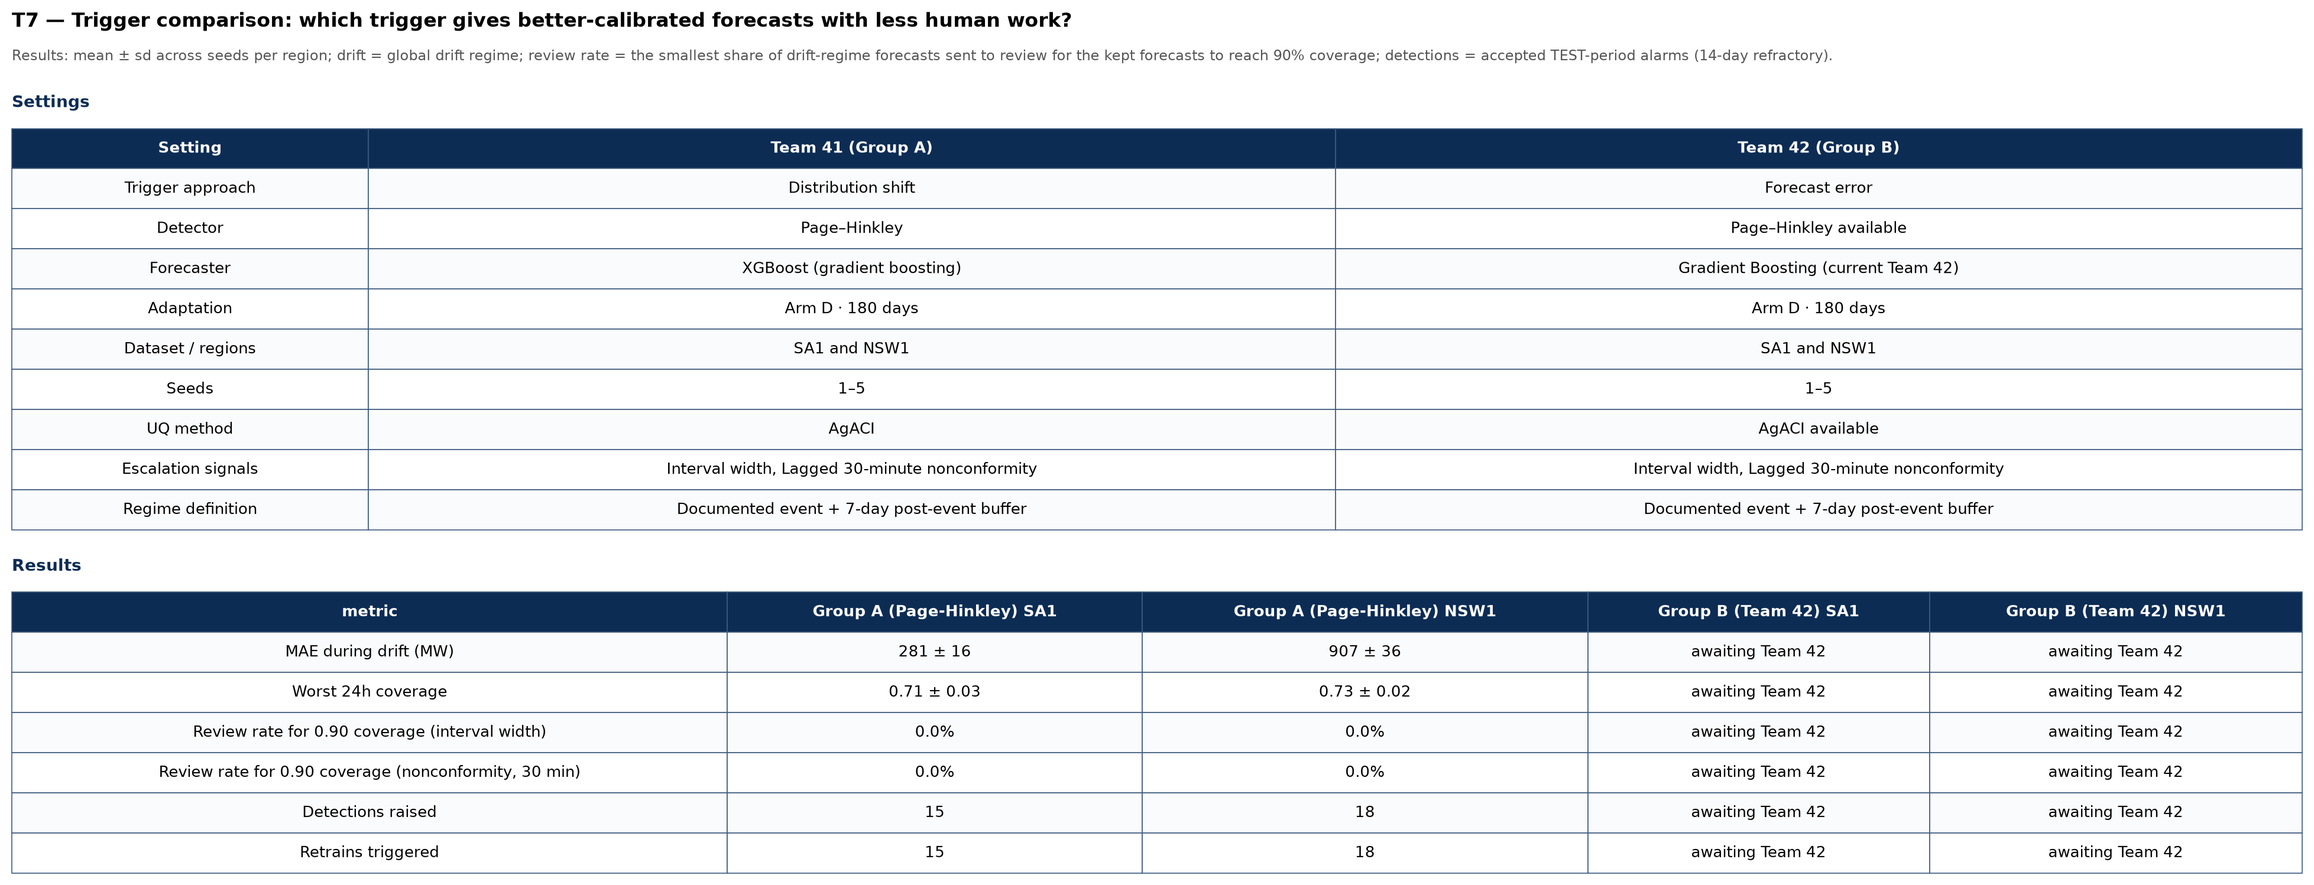
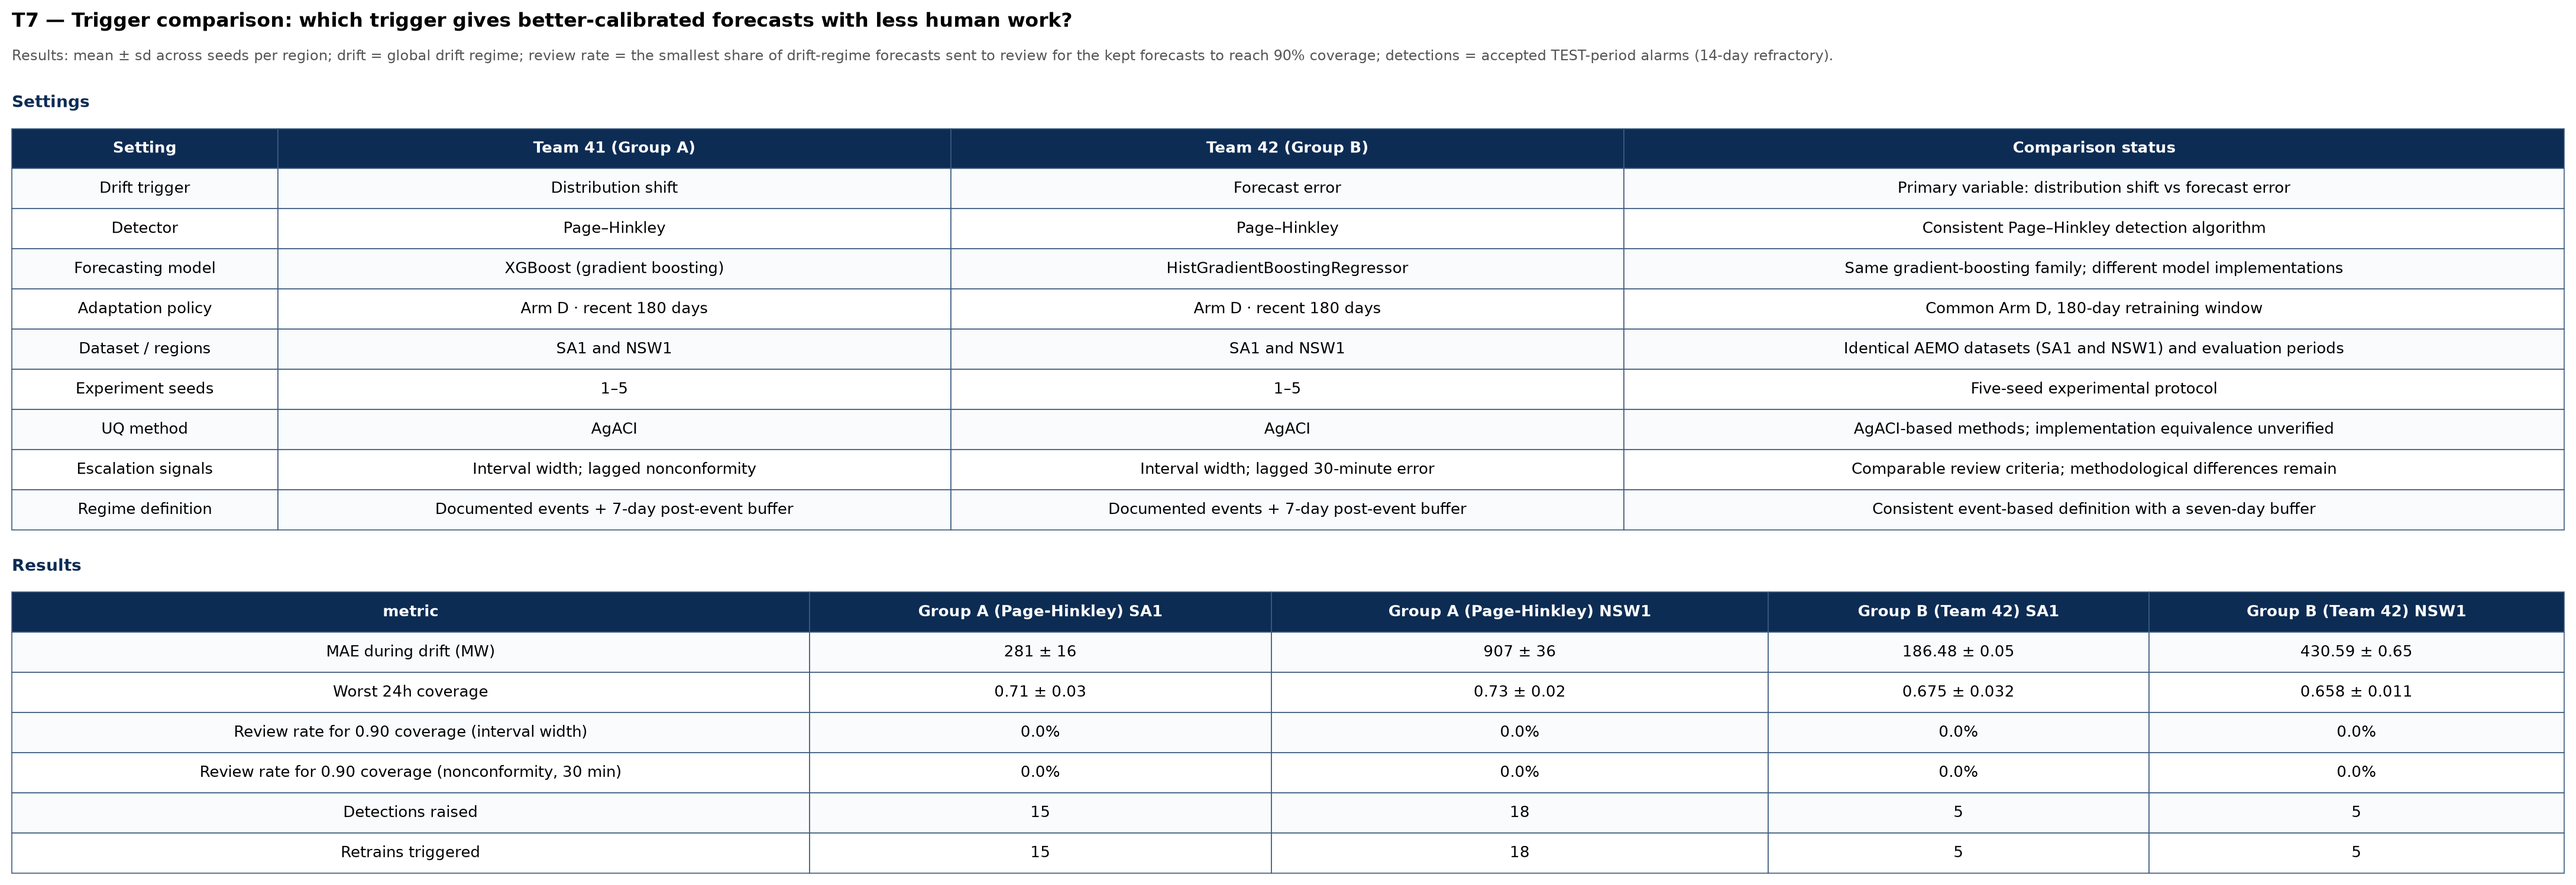
add: update table 7 & figure 6 with team 42 results

diff --git a/experiments/produce/produce_table_t7.py b/experiments/produce/produce_table_t7.py
@@ -46,25 +46,52 @@ GROUP_B_CSV = TABLE7_DIR / "group_b_team42.csv"
 # (its forecaster row follows MODEL).
 SETTINGS = pd.DataFrame(
     [
-        ("Trigger approach", "Distribution shift", "Forecast error"),
-        ("Detector", "Page–Hinkley", "Page–Hinkley available"),
-        ("Forecaster", MODEL_LABELS[MODEL], "Gradient Boosting (current Team 42)"),
-        ("Adaptation", "Arm D · 180 days", "Arm D · 180 days"),
-        ("Dataset / regions", "SA1 and NSW1", "SA1 and NSW1"),
-        ("Seeds", "1–5", "1–5"),
-        ("UQ method", "AgACI", "AgACI available"),
+        (
+            "Drift trigger",
+            "Distribution shift",
+            "Forecast error",
+            "Primary variable: distribution shift vs forecast error",
+        ),
+        ("Detector", "Page–Hinkley", "Page–Hinkley", "Consistent Page–Hinkley detection algorithm"),
+        (
+            "Forecasting model",
+            MODEL_LABELS[MODEL],
+            "HistGradientBoostingRegressor",
+            "Same gradient-boosting family; different model implementations",
+        ),
+        (
+            "Adaptation policy",
+            "Arm D · recent 180 days",
+            "Arm D · recent 180 days",
+            "Common Arm D, 180-day retraining window",
+        ),
+        (
+            "Dataset / regions",
+            "SA1 and NSW1",
+            "SA1 and NSW1",
+            "Identical AEMO datasets (SA1 and NSW1) and evaluation periods",
+        ),
+        ("Experiment seeds", "1–5", "1–5", "Five-seed experimental protocol"),
+        (
+            "UQ method",
+            "AgACI",
+            "AgACI",
+            "AgACI-based methods; implementation equivalence unverified",
+        ),
         (
             "Escalation signals",
-            "Interval width, Lagged 30-minute nonconformity",
-            "Interval width, Lagged 30-minute nonconformity",
+            "Interval width; lagged nonconformity",
+            "Interval width; lagged 30-minute error",
+            "Comparable review criteria; methodological differences remain",
         ),
         (
             "Regime definition",
-            "Documented event + 7-day post-event buffer",
-            "Documented event + 7-day post-event buffer",
+            "Documented events + 7-day post-event buffer",
+            "Documented events + 7-day post-event buffer",
+            "Consistent event-based definition with a seven-day buffer",
         ),
     ],
-    columns=["Setting", "Team 41 (Group A)", "Team 42 (Group B)"],
+    columns=["Setting", "Team 41 (Group A)", "Team 42 (Group B)", "Comparison status"],
 )
 PENDING = "awaiting Team 42"
 
